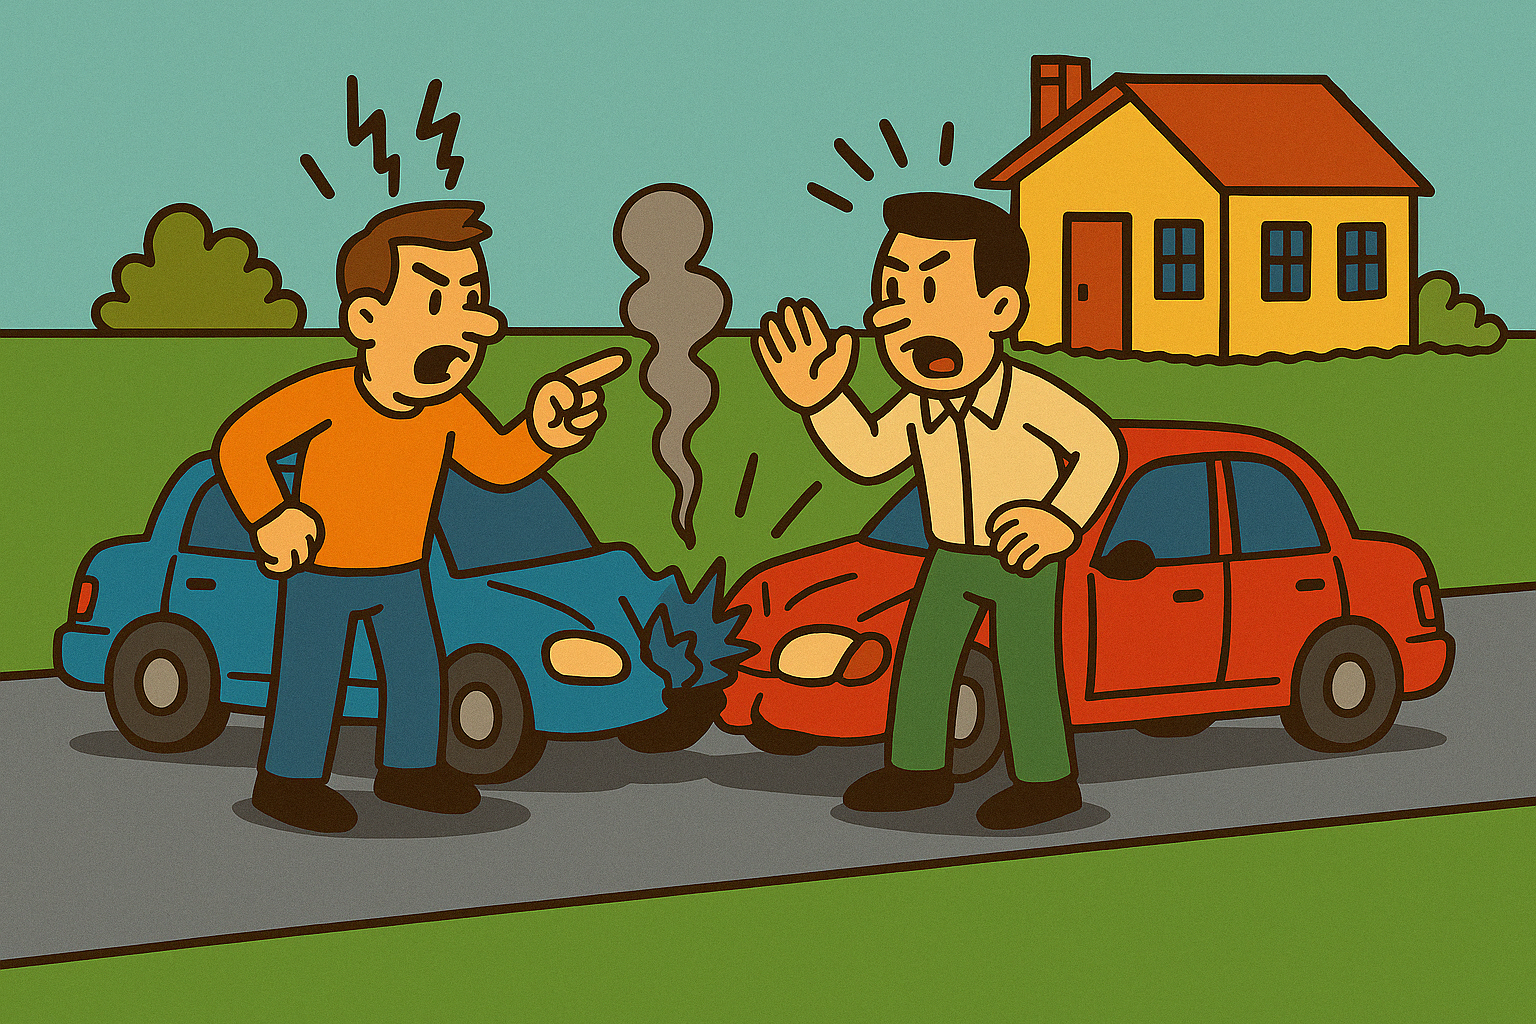
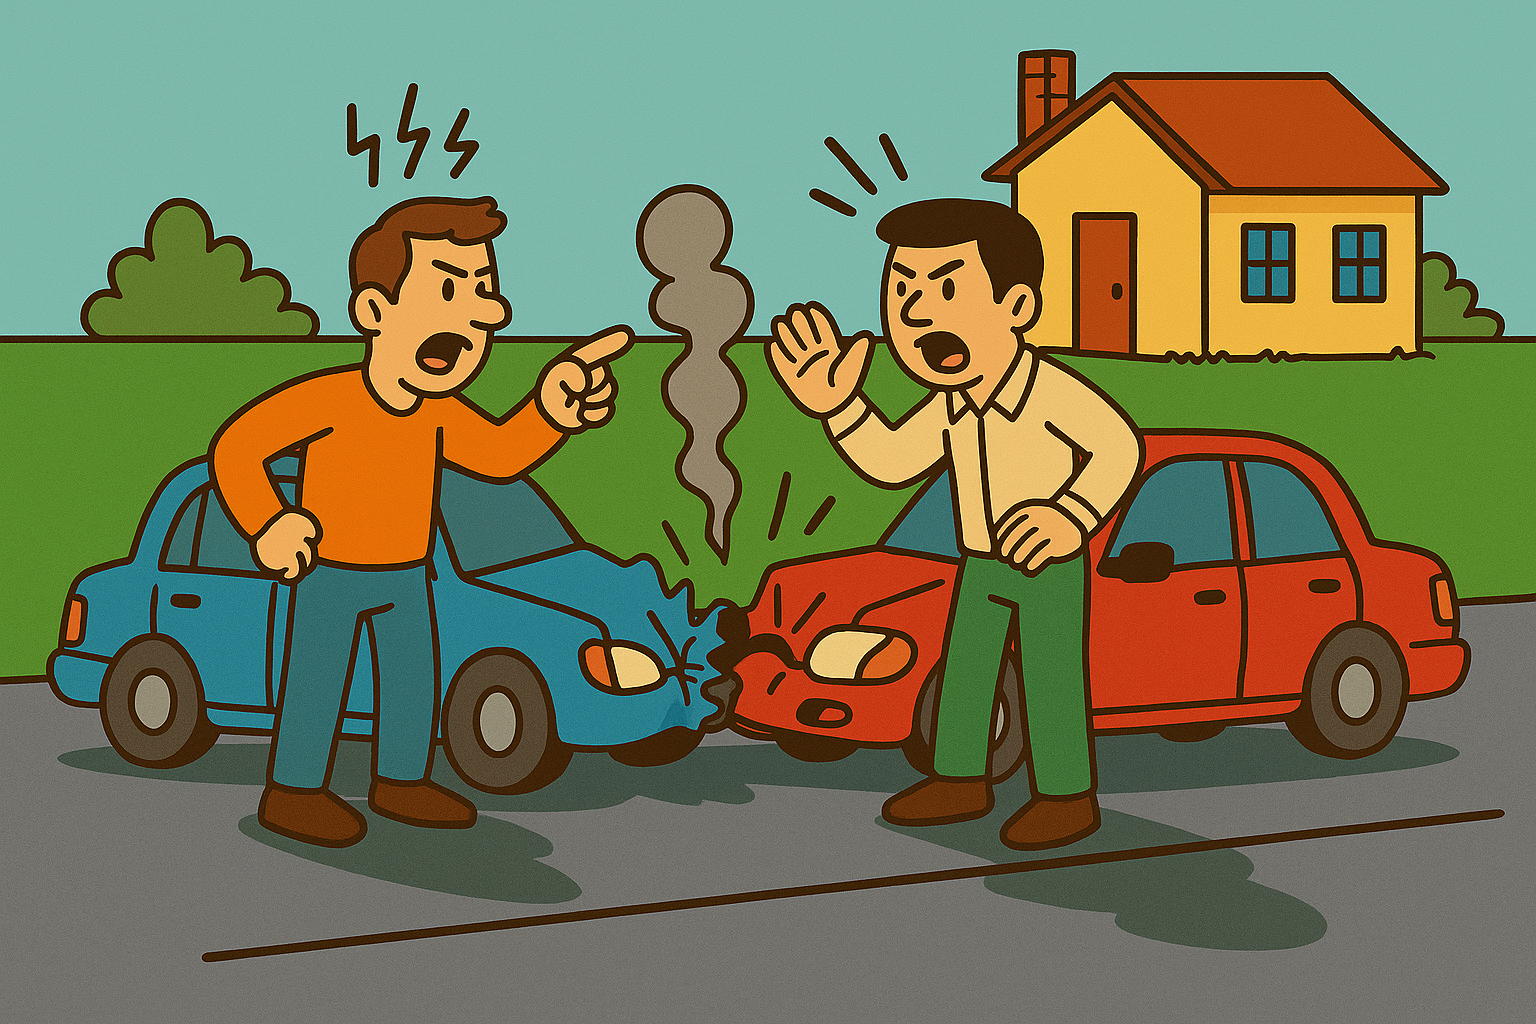
Couple more images. Splitting answer form into 3.

diff --git a/script.js b/script.js
@@ -1,5 +1,6 @@
-const name = ["(Name)",  "Ellie", "Harper", "Linda", "Frank", "Zara", "Andrew", "James", "Becky", "Ben", "Rose", "Dave", "Tom ", "Katie", "Doreen", "Naomi", "Chloe ", "Ruth", "Emma", "Edward", "Ashley", "Julia", "John", "Ali", "Rob ", "Stuart ", "Dawn", "Simon"].sort();
-const noun = ["(noun)", "his parents", "her friend", "coffee beans", "the universe", "a coffee shop", "world peace", "the letter Q", "a duck", "potatoes", "an Easter card", "their house", "the road", "his car", "his job", "money", "existential terror", "an iPhone", "the Riemann hypothesis ", "cheesecake", "her sister", "her brother", "his sister", "his brother", "her parents", "a fruit smoothie", "a milkshake", "a cappuccino", "baked beans", "green beans", "jumping beans", "black beans", "Woodley", "Bellington", "Farley", "Norton", "Harpton", "Mereham" ].sort();
+const name = ["(Name)", "Ellie", "Harper", "Linda", "Frank", "Zara", "Andrew", "James", "Becky", "Ben", "Rose", "Dave", "Tom ", "Katie", "Doreen", "Naomi", "Chloe", "Ruth", "Emma", "Ed", "Ashton", "Julia", "John", "Ali", "Rob", "Stuart", "Dawn", "Simon"].sort();
+const noun = ["(noun)", "his parents", "her friend", "coffee beans", "the universe", "a coffee shop", "world peace", "the letter Q", "a duck", "potatoes", "an Easter card", "their house", "the road", "his car", "his job", "money", "existential terror", "an iPhone", "the Riemann hypothesis ", "cheesecake", "her sister", "her brother", "his sister", "his brother", "her parents", "a fruit smoothie", "a milkshake", "a cappuccino", "baked beans", "green beans", "jumping beans", "black beans"].sort();
+const place = ["(place)", "Woodley", "Bellington", "Farley", "Norton", "Harpton", "Mereham" ].sort();
 const direction = ["(direction)","north", "south", "east", "west", "downward", "upward","ana", "kata", "rimward", "hubward" ];
 const verb = ["(verb)","visit", "deliver", "eat", "drink", "kill", "defenestrate", "seduce", "reverse-engineer", "buy", "sell", "crash into", "analyse", "find", "apologise to", "drive", "order", "fix", "break", "return", "transmute", "advertise"].sort();
 const verbed = ["(verbed)","visited", "delivered", "ate", "drank", "killed", "defenestrated", "seduced", "reverse-engineered", "bought", "sold", "crashed into", "analysed", "found", "apologised to", "drove", "ordered", "fixed", "broke", "returned", "transmuted", "advertised"].sort();
@@ -17,12 +18,15 @@ hour.unshift("(Hour)");
 const day = ["(Weekday)", "Monday", "Tuesday", "Wednesday", "Thursday", "Friday", "Saturday", "Sunday"];
 
 
-//const formText = "On 0 1 2, 3 crashed into 4 with 5."
 /* const formText = "Linda Harper and her husband Frank have four grown-up children, who are, in birth order, Ellie, X, X and Becky.<br>
 On Saturday the 7th April, 2012, at about 5pm, Andrew Harper was driving north, to visit his parents, and crashed into Dave Stuart, who was driving south from Woodley to Bellington, to deliver coffee beans.<br>
 Meanwhile, Becky was chatting to her friend Zara, and Ellie was at a coffee shop in X, where she ordered a fruit smoothie from Geoff the barista." */
 
-const formText = "0 1 and her husband 2 have four grown-up children, who are, in birth order, 3, 4, 5 and 6.<br><BR> On 7 8 9, 10, at about 11 pm, 12 13 was 14 15, to 16 17, and 18 19 20, who was 21 22 from 23 to 24, to 25 26.<br><BR> Meanwhile, 27 was 28 29 30, and 31 was at 32 in 33, where she 34 35 from 36 the barista."
+const formText = [
+"0 1 and her husband 2 have four grown-up children, who are, in birth order, 3, 4, 5 and 6.",
+"On 7 8 9, 10, at about 11 pm, 12 13 was 14 15, to 16 17, and 18 19 20, who was 21 22 from 23 to 24, to 25 26.",
+ "Meanwhile, 27 was 28 29 30, and 31 was at 32 in 33, where she 34 35 from 36 the barista.",
+ ];
 
 const locations = ["indoor", "outdoor", "road", "coffeeshop", /*"upstairs"*/];
 
@@ -49,7 +53,7 @@ new Question(name,"Becky"),
 new Question(day,"Saturday"),
 new Question(date,"7"),
 new Question(month,"April"),
-new Question(year, 2012),
+new Question(year, "2012"),
 
 new Question(hour,"5"), 
 new Question(name,"Andrew"), 
@@ -64,8 +68,8 @@ new Question(name,"Stuart"),
 
 new Question(verbing, "driving"),
 new Question(direction, "north"),
-new Question(noun, "Woodley"),
-new Question(noun, "Bellington"),
+new Question(place, "Woodley"),
+new Question(place, "Bellington"),
 new Question(verb, "deliver"),
 new Question(verb, "coffee beans"),
 new Question(name,"Becky"),
@@ -75,21 +79,12 @@ new Question(name,"Zara"),
 
 new Question(name,"Ellie"),
 new Question(noun, "a coffee shop"),
-new Question(noun, "Bellington"), 
+new Question(place, "Bellington"), 
 new Question(verbed, "ordered"),
 new Question(noun, "a fruit smoothie"),
 new Question(name, "Geoff"),
 ]
 
-/* 
-var questions = [
-new Question(date,2), 
-new Question(month,"February"),
-new Question(year, 2001),
-new Question(name,"James"), 
-new Question(name,"Linda"),
-new Question(noun, "his car")
-]; */
 
 function go(targetLocation) { 
 	locations.forEach(hide); 
@@ -138,9 +133,13 @@ function populateDropdown(q, index) {
 function populateForm() {
 	
 	//On <select id="0" onchange="checkAnswers();"></select> <select id="1" onchange="checkAnswers();"></select> <select id="2" onchange="checkAnswers();"></select>,
-	t = formText.replace(/([0-9]+)/g, "<select id='$1' onchange='checkAnswers();'></select>");
-	//console.log(t);
-	document.getElementById("form").innerHTML = t;
+	for (i in [0,1,2]) {
+		t = "<div class='answerform' id='form" + i + "'>";
+		t += formText[i].replace(/([0-9]+)/g, "<select id='$1' onchange='checkAnswers();'></select>");
+		t += "</div>";
+		document.getElementById("form").innerHTML += t;
+
+	}
 	questions.forEach(populateDropdown);
 }
 
@@ -154,13 +153,13 @@ function isAnswerCorrect(value, index) {
 }
 
 function checkAnswers() {
-	//console.log("check");
+ //todo check each form separately, make the correct ones green; proceed to success state if all 3 correct
 
 	if (questions.every(isAnswerCorrect) || tmp==1) {
 		console.log("correct!")
-		document.getElementById("notes").class = "rounded-lg border-4 border-green-600 shadow-lg";
-		document.getElementById("form-content").class = "modal-content; rounded-xl border-4 border-green-600 bg-gradient-to-tr from-green-500 to-emerald-500" ;
-		document.getElementsByTagName("select").forEach(makeSelectElementGreen);
+		//document.getElementById("notes").class = "rounded-lg border-4 border-green-600 shadow-lg";
+		document.getElementById("form").class = "answerform-correct" ;
+		//document.getElementsByTagName("select").forEach(makeSelectElementGreen);
 		
 	}
 }

diff --git a/index.html b/index.html
@@ -8,11 +8,44 @@
 </head>
 <body onload="start();"> 
 
+<!-- ============== OUTDOORS ============== -->
+
+<!-- Outdoor image starts off visible -->
+<img src="outdoor-green.png" style="display:block" id="outdoor" usemap="#outdoormap">
+
+<map name="outdoormap">
+  <area shape="rect" coords="1040,200,1120,370" alt="Door" href="#" onclick="go('indoor');" style="cursor: url('uparrow.png'), auto">
+   <area shape="rect" coords="1400,0,1500,1024" alt="Right" href="javascript:go('road');" style="cursor: url('rightarrow.png'), auto">
+    <area shape="rect" coords="150,450,700,770" alt="Car" href="javascript:display('cardiv');" style="cursor: url('glass.png'), auto">
+	<area shape="rect" coords="350,220,1000,400" alt="Conversation" href="javascript:display('outdoor-convodiv');" style="cursor: url('speech.png'), auto">
+</map>
+
+<!-- Box of beans starts off hidden  -->
+ <div id="cardiv" class="modal">
+	 <div  class="modal-content" >
+		<span class="close" onclick="hide('cardiv')">&times;</span> 
+		<img src="beans.png"  id="car" width="512px" height="512px" class="modal-content" >
+		
+	</div>
+</div> 
+
+<!-- Outdoor conversation starts off hidden  -->
+ <div id="outdoor-convodiv" class="modal">
+	 <div  class="modal-content convo" style="top:380px; right:550px" >
+		<span class="close" onclick="hide('outdoor-convodiv')">&times;</span> 
+		<p style="color:skyblue">"What the hell were you doing?"</p>
+		<p style="color:red">"I was indicating! I was clearly turning right into that driveway!"</p>
+		
+	</div>
+		
+	</div>
+</div> 
+
 
 <!-- ============== INDOORS ============== -->
 
-<!-- Indoor image starts off displayed  -->
-<img src="indoor.png" style="display:block" id="indoor"  usemap="#indoormap">
+<!-- Indoor image starts off hidden  -->
+<img src="indoor.png" style="display:none" id="indoor"  usemap="#indoormap">
 
 <map name="indoormap">
   <area shape="rect" coords="1400,0,1500,1024" alt="Exit" href="javascript:go('outdoor');" style="cursor: url('rightarrow.png'), auto">
@@ -63,38 +96,7 @@
 	</div>
 </div> 
 
-<!-- ============== OUTDOORS ============== -->
 
-<!-- Outdoor image starts off hidden -->
-<img src="outdoor.png" style="display:none" id="outdoor" usemap="#outdoormap">
-
-<map name="outdoormap">
-  <area shape="rect" coords="1040,200,1120,370" alt="Door" href="#" onclick="go('indoor');" style="cursor: url('uparrow.png'), auto">
-   <area shape="rect" coords="1400,0,1500,1024" alt="Right" href="javascript:go('road');" style="cursor: url('rightarrow.png'), auto">
-    <area shape="rect" coords="150,450,700,770" alt="Car" href="javascript:display('cardiv');" style="cursor: url('glass.png'), auto">
-	<area shape="rect" coords="350,220,1000,400" alt="Conversation" href="javascript:display('outdoor-convodiv');" style="cursor: url('speech.png'), auto">
-</map>
-
-<!-- Box of beans starts off hidden  -->
- <div id="cardiv" class="modal">
-	 <div  class="modal-content" >
-		<span class="close" onclick="hide('cardiv')">&times;</span> 
-		<img src="beans.png"  id="car" width="512px" height="512px" class="modal-content" >
-		
-	</div>
-</div> 
-
-<!-- Outdoor conversation starts off hidden  -->
- <div id="outdoor-convodiv" class="modal">
-	 <div  class="modal-content convo" style="top:380px; right:550px" >
-		<span class="close" onclick="hide('outdoor-convodiv')">&times;</span> 
-		<p style="color:skyblue">"What the hell were you doing?"</p>
-		<p style="color:red">"I was indicating! I was clearly turning right into that driveway!"</p>
-		
-	</div>
-		
-	</div>
-</div> 
 
 <!-- ============== ROAD ============== -->
 
@@ -168,25 +170,25 @@ TODO: style; right align  -->
 
 
 <!-- TODO
-Make sure to update the cursor when the scene changes; it seems to persist
 Remove the shadows from the arrows!
-Add actual X to top right of photo and others (or make them (styled) popups??)
 Add credits page at end, and move arrow credit and others to there
 Fix issues with some Xs on the left (or just put them all on the left?!)
+Maybe separate answer form into 3 so they can all go green independently.
+Change classes on answer form etc when correct, to green, and maybe fade out to reveal a message
 -->
 
 <!-- ============== ANSWER FORM ============== -->
 
 <div id="form-modal" class="modal"> <!-- This bit is the grey overlay that covers everything that's not part of the modal -->
-	<div class="modal-content answerform" > <!-- This is the modal itself --> <!-- class="modal-content; rounded-xl border-4 border-red-600 bg-gradient-to-tr from-red-500 to-orange-500"  -->
+	<div class="modal-content answerform" > <!-- This is the modal itself --> 
 		<span class="close" onclick="hide('form-modal')">&times;</span> <!-- Close button X -->
 		<table>
 		<tr>
 		<td>
-			<form id="form">
-		</form>
+			<div id="form">
+			</div>
 		</td><td>
-			<textarea rows=10 cols=100 placeholder="Personal notes..."></textarea>
+			<textarea rows=16 cols=100 placeholder="Personal notes..."></textarea>
 		</td></tr></table>
 	<div>
 </div>

diff --git a/style.css b/style.css
@@ -68,9 +68,23 @@ textarea	{
 
 .answerform {
   border-color: maroon;
-  border: 10px;
+  border-width: 2px;
+  padding: 10px;
+  margin: 10px;
   box-shadow: 2px 2px maroon;
   background-color: firebrick;
+  border-radius: 10px;
+  color: beige;
+   font-family: Arial, Helvetica, sans-serif;
+}
+
+.answerform-correct {
+  border-color: darkgreen;
+  border-width: 2px;
+  padding: 10px;
+  margin: 10px;
+  box-shadow: 2px 2px darkgreen;
+  background-color: green;
   border-radius: 10px;
   color: beige;
    font-family: Arial, Helvetica, sans-serif;
